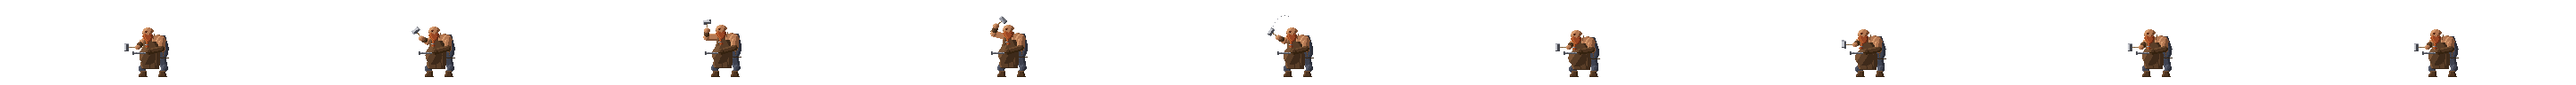
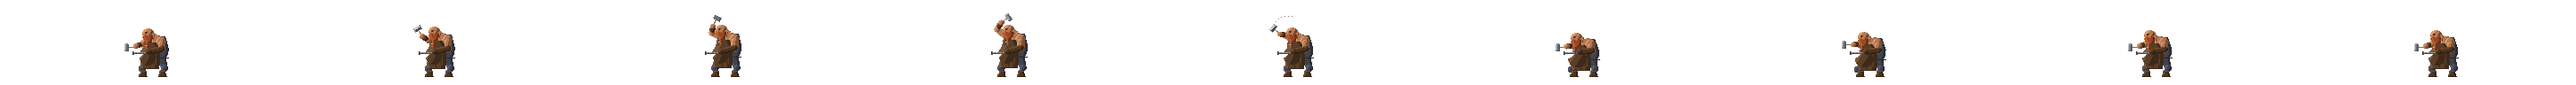
Forja: o gesto aprovado do ferreiro na fonte e no jogo (Corpo desce)
O gesto aprovado pelo Jean (a variante "Corpo desce" da candidata, com a cabeça do martelo
desenhada à mão no contato, a nuca e o calcanhar da bigorna) estava só no desenho em
código do protótipo. consolidar_gesto.py troca a camada "ferreiro" da fonte editável
(aseprite/forja-h2.aseprite) pelos 9 quadros aprovados, sem mexer nas outras camadas, nas
tags e nas durações, e confere o que salvou. A exportação (exportar_h2.py) sai igual à
candidata pixel a pixel; o fundo, o fogo, a bigorna, a espada e a frente saem iguais aos
de antes. No jogo (--jogo), só a tira do ferreiro muda: a subida, o ritmo, os apoios, a
tenaz, o contato com a espada e o enquadramento são os de antes.

A fonte é a autoridade: desenhar_h2.py --refazer agora recusa sem --sem-os-retoques (o
código antigo apagaria o gesto), e consolidar_gesto.py não roda de novo nem sobrescreve um
retoque feito à mão no Aseprite sem --forcar.

diff --git a/ferramentas/prototipos/hud/forja/h2/consolidar_gesto.py b/ferramentas/prototipos/hud/forja/h2/consolidar_gesto.py
@@ -1,0 +1,75 @@
+"""Consolida na fonte editável o gesto do ferreiro aprovado pelo Jean (28/10/2026): a variante "Corpo desce" da
+candidata (candidata_gesto.py), com a cabeça do martelo desenhada à mão no contato, a nuca e o calcanhar da bigorna.
+Troca só a camada "ferreiro" de aseprite/forja-h2.aseprite (um quadro por estado, na ordem de desenhar_h2.ESTADOS);
+o fundo, o fogo, a bigorna, a espada, a frente, as tags e as durações não mudam. Depois, a fonte é a autoridade:
+exportar_h2.py lê dela, e nenhum script de desenho em código a sobrescreve (desenhar_h2.py recusa sem --refazer, e o
+--refazer agora exige --sem-os-retoques, porque apagaria o gesto aprovado).
+
+Só roda uma vez: se a camada já é a candidata, não faz nada; se ela não é nem a do código antigo nem a candidata (um
+retoque à mão no Aseprite), recusa sem --forcar.
+
+    python ferramentas/prototipos/hud/forja/h2/consolidar_gesto.py [--forcar]
+"""
+import pathlib
+import shutil
+import subprocess
+import sys
+import tempfile
+
+from PIL import Image, ImageChops
+
+AQUI = pathlib.Path(__file__).resolve().parent
+sys.path.insert(0, str(AQUI))
+sys.path.insert(0, str(AQUI.parents[3] / "arte"))
+
+from desenhar_h2 import ESTADOS, FONTE  # noqa: E402
+from exportar_aseprite import aseprite  # noqa: E402
+
+CANDIDATA = AQUI / "candidata-gesto" / "ferreiro.png"
+
+
+def camada_da_fonte(tmp):
+    """A camada ferreiro como está na fonte: a tira de 9 quadros."""
+    script = tmp / "exportar_forja.lua"
+    shutil.copy(AQUI / "aseprite" / "exportar_forja.lua", script)
+    subprocess.run([aseprite(), "-b", "--script-param", f"fonte={FONTE}", "--script-param", f"pasta={tmp}",
+                    "--script", str(script)], capture_output=True, text=True, check=True)
+    tira = Image.new("RGBA", (320 * len(ESTADOS), 96))
+    for i in range(len(ESTADOS)):
+        arq = tmp / f"ferreiro-{i}.png"
+        if arq.exists():
+            tira.paste(Image.open(arq).convert("RGBA"), (320 * i, 0))
+    return tira
+
+
+def igual(a, b):
+    return ImageChops.difference(a.convert("RGBA"), b.convert("RGBA")).getbbox() is None
+
+
+def main():
+    nova = Image.open(CANDIDATA).convert("RGBA")
+    with tempfile.TemporaryDirectory() as tmp:
+        tmp = pathlib.Path(tmp)
+        hoje = camada_da_fonte(tmp)
+        if igual(hoje, nova):
+            print("A fonte já tem o gesto aprovado: nada a fazer.")
+            return
+        codigo = Image.open(AQUI / "camadas" / "ferreiro.png").convert("RGBA")  # a exportação de antes (o código antigo)
+        if not igual(hoje, codigo) and "--forcar" not in sys.argv:
+            sys.exit("A camada ferreiro da fonte tem retoques que não são nem o código antigo nem a candidata: use --forcar.")
+        for i in range(len(ESTADOS)):
+            nova.crop((320 * i, 0, 320 * i + 320, 96)).save(tmp / f"ferreiro-{i}.png")
+        script = tmp / "trocar_camada.lua"
+        shutil.copy(AQUI / "aseprite" / "trocar_camada.lua", script)
+        r = subprocess.run([aseprite(), "-b", "--script-param", f"fonte={FONTE}", "--script-param", f"pasta={tmp}",
+                            "--script-param", "camada=ferreiro", "--script", str(script)], capture_output=True, text=True)
+        if f"celulas {len(ESTADOS)}" not in r.stdout:
+            sys.exit(f"O Aseprite não trocou a camada:\n{r.stdout}{r.stderr}")
+    with tempfile.TemporaryDirectory() as tmp:
+        if not igual(camada_da_fonte(pathlib.Path(tmp)), nova):
+            sys.exit("A camada salva não confere com a candidata.")
+    print(FONTE.name, "com o gesto aprovado (9 quadros conferidos).")
+
+
+if __name__ == "__main__":
+    main()

diff --git a/ferramentas/prototipos/hud/forja/h2/desenhar_h2.py b/ferramentas/prototipos/hud/forja/h2/desenhar_h2.py
@@ -38,6 +38,11 @@ def camadas_do_estado(i, estado, paradas):
 def main():
     if FONTE.exists() and "--refazer" not in sys.argv:
         sys.exit(f"{FONTE.name} já existe: os retoques dela se perderiam. Use --refazer para gerar de novo.")
+    # 28/10/2026: a camada ferreiro da fonte tem o gesto aprovado (consolidar_gesto.py), que o código daqui não desenha:
+    # refazer a fonte apagaria o gesto. Só com a confirmação explícita de que os retoques se perdem.
+    if FONTE.exists() and "--sem-os-retoques" not in sys.argv:
+        sys.exit(f"{FONTE.name} tem o gesto aprovado do ferreiro (consolidar_gesto.py), que este código não desenha: "
+                 "refazer o apagaria. Para refazer mesmo assim: --refazer --sem-os-retoques (e depois consolidar_gesto.py).")
     fundo = A.desenhar_fundo()
     paradas = {"fundo": fundo, "bigorna": A.bigorna(), "frente": A.frente()}
     with tempfile.TemporaryDirectory() as tmp:
